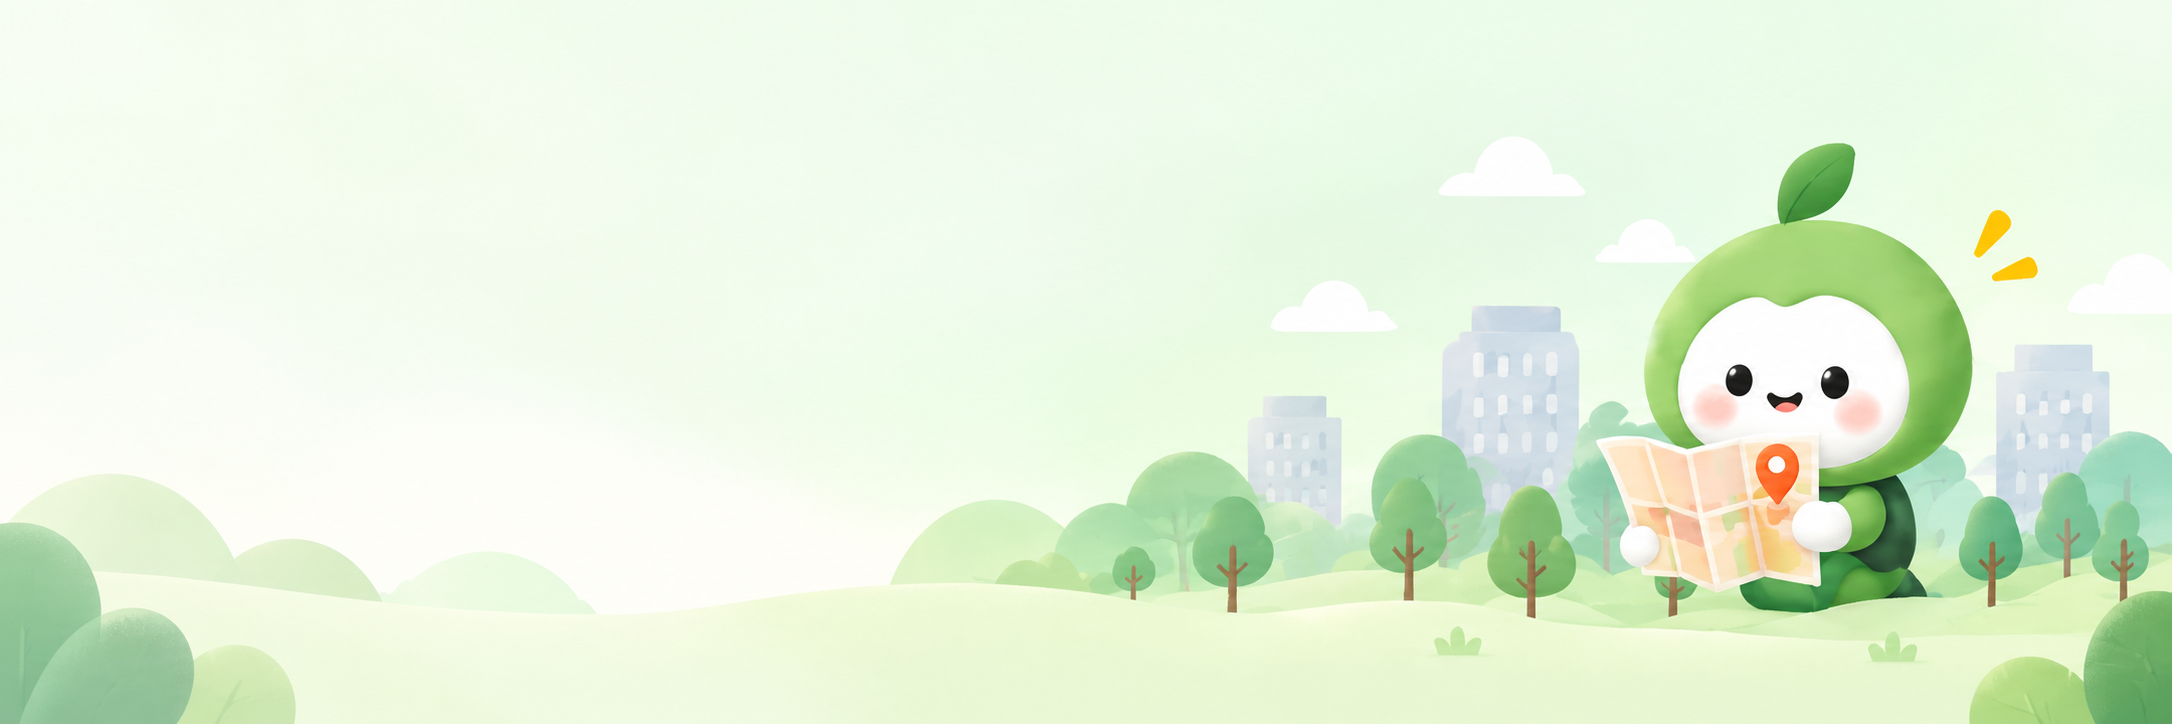
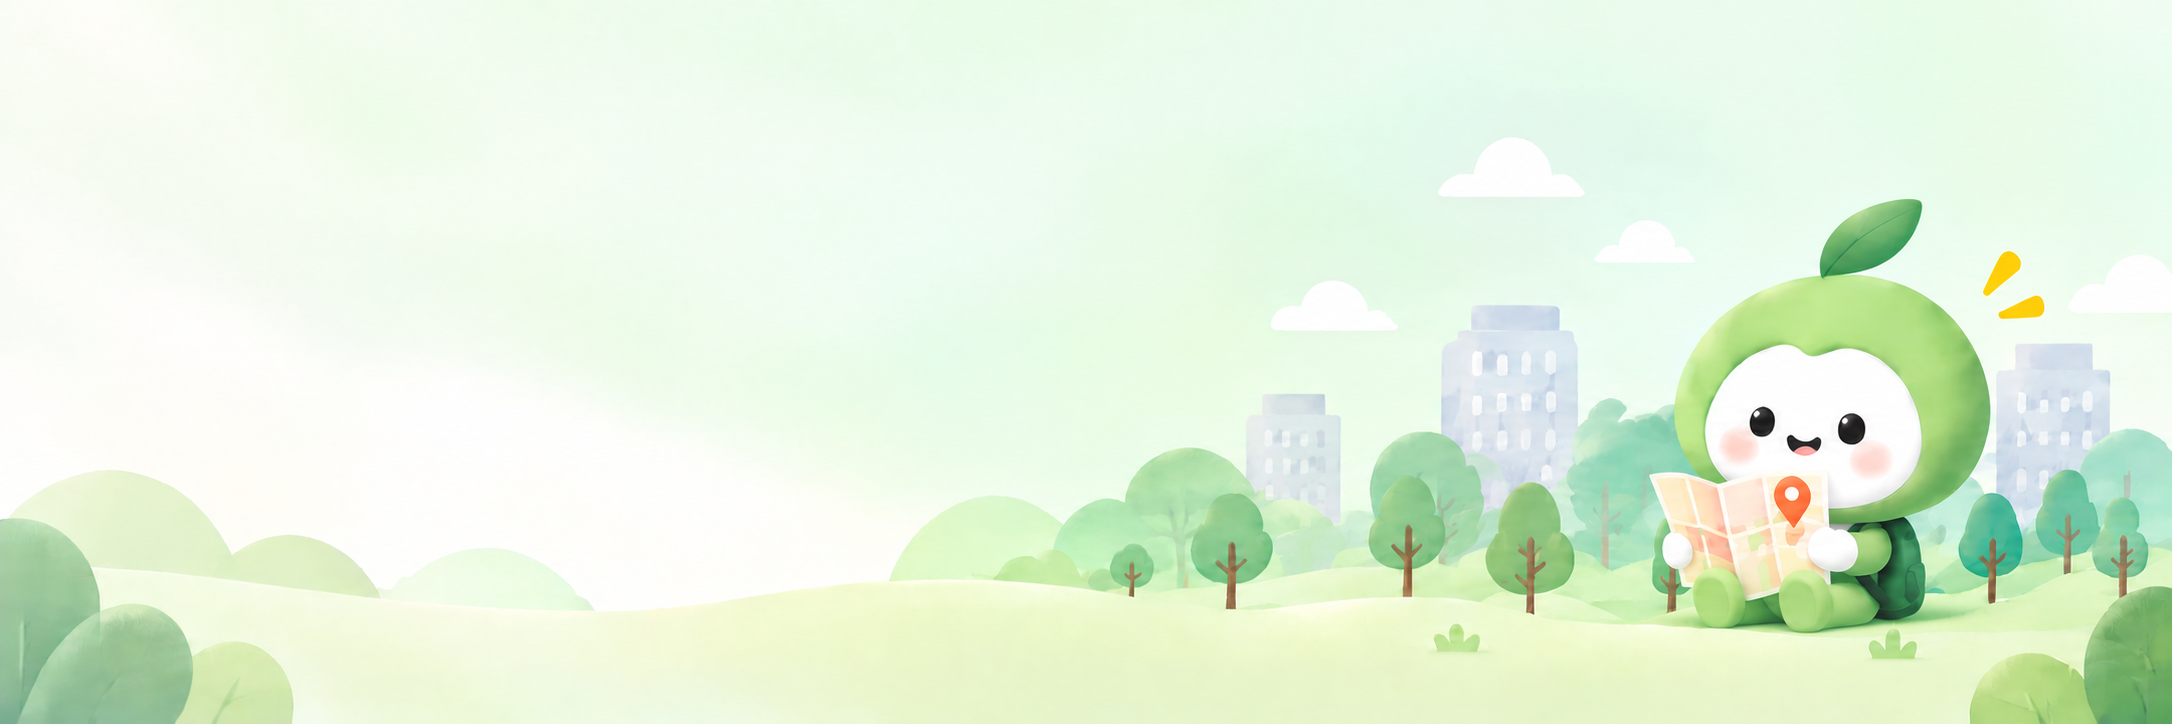
배너 이미지 수정 (파일, 위치)

diff --git a/frontend/app/edit/page.tsx b/frontend/app/edit/page.tsx
@@ -177,7 +177,7 @@ export default function Chat(){
           <article className={`chat ${showMap ? 'on' : ''}`}>
             <div className='message'>
               <div className='banner'>
-                <img src="/banner2.png" alt="banner" />
+                <img src="/banner.png" alt="banner" />
                 <div className='copy'>
                   <h1>
                     우리 동네의<br/> 좋은 장소를 <strong>누비니</strong>와 함께 찾아보세요
